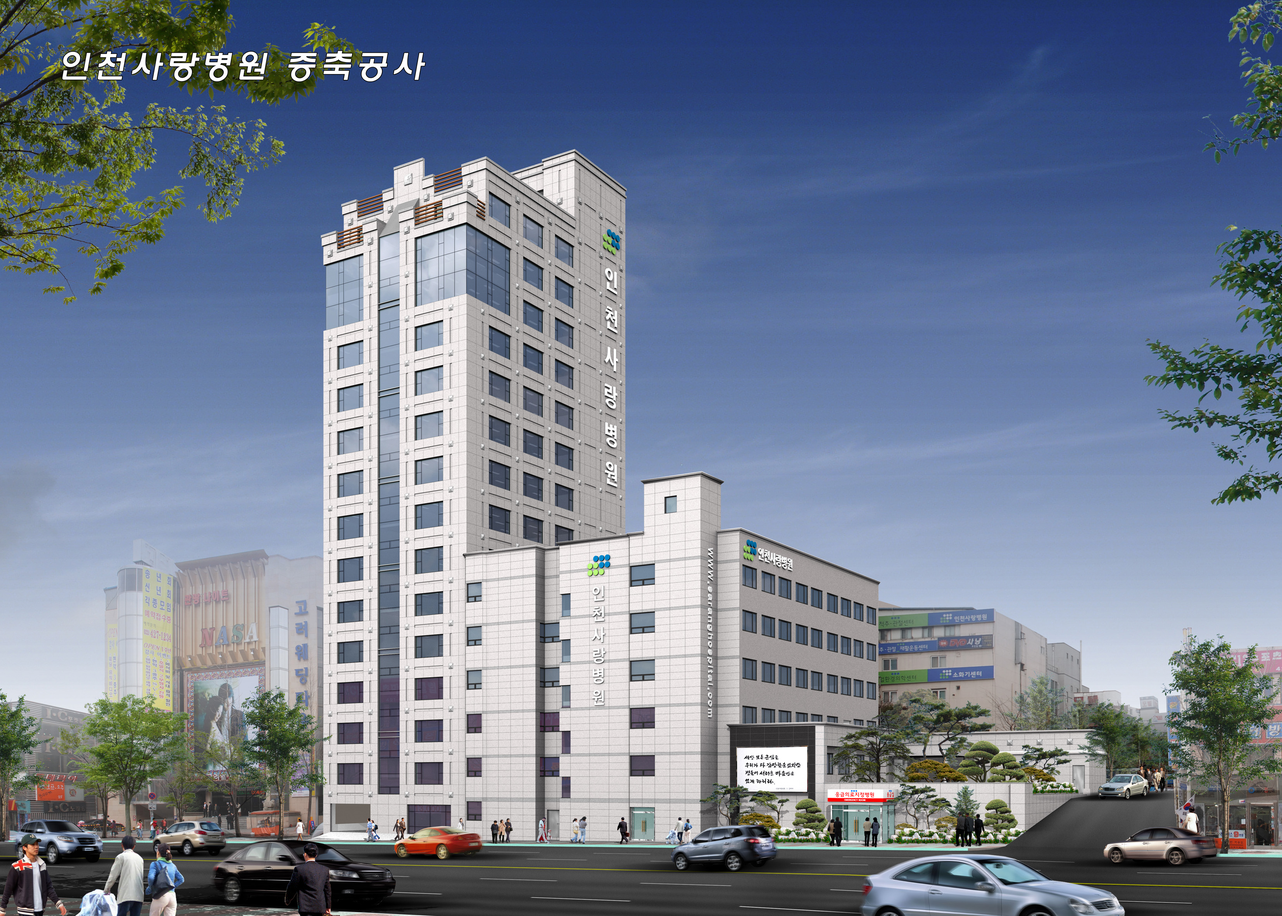
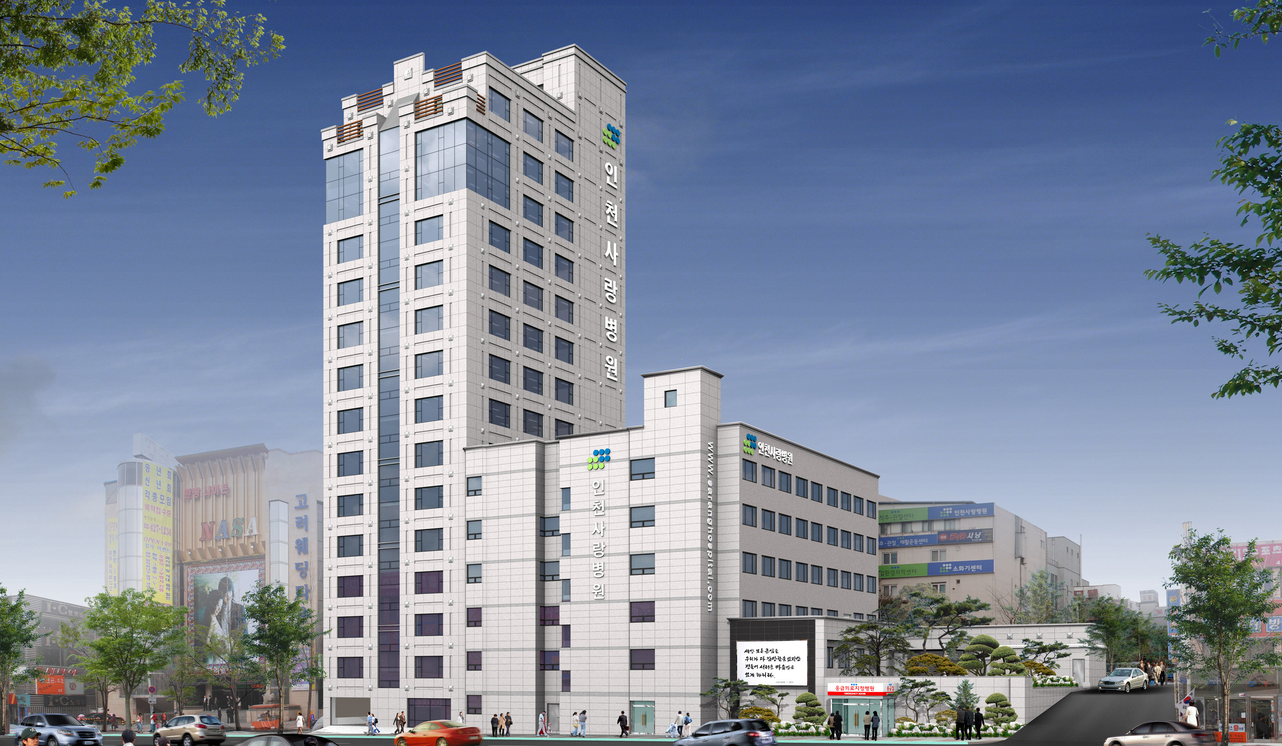
10월5일

diff --git a/sarang.html b/sarang.html
@@ -13,30 +13,32 @@
 
 <body>
     <header>
-        <h1>
-            <a href="#">
-                <figure>
-                    <img src="img/logo black.png" alt="인천사랑병원">
-                </figure>
-                <span class="hidden">인천사랑병원</span>
-            </a>
-        </h1>
-        <div class="menu">
-            <ul>
-                <li>진료안내</li>
-                <li>병원안내</li>
-                <li>진료센터</li>
-                <li>사랑이야기</li>
-                <li>병원소개</li>
-            </ul>
+        <div class="header-container">
+            <h1>
+                <a href="#">
+                    <figure>
+                        <img src="img/logo black.png" alt="인천사랑병원">
+                    </figure>
+                    <span class="hidden">인천사랑병원</span>
+                </a>
+            </h1>
+            <nav class="menu">
+                <ul>
+                    <li>진료안내</li>
+                    <li>병원안내</li>
+                    <li>진료센터</li>
+                    <li>사랑이야기</li>
+                    <li>병원소개</li>
+                </ul>
+            </nav>
         </div>
     </header>
     <main>
         <section id="main-title">
             <div class="banner-box">
-                <img src="img/sarang.jpeg" alt="인천사랑병원">
-                <p class="main-text-title">전문적인 진료와 우수한 헬스케어</p>
-                <p class="title-second">시스템으로 환자 맞춤형 안전지대 구현</p>
+                <!-- background로 이미지 넣을것 -->
+                <p class="first-text"> <span class="main-text-title">전문적인 진료와 우수한 헬스케어</span>
+                    <br> 시스템으로 환자 맞춤형 안전지대 구현</p>
                 <p class="title-appeal">지속적인 MOU체결로 인천 제일의 종합병원으로 그 가치를 이뤄내고 있습니다.</p>
             </div>
         </section>
@@ -84,65 +86,96 @@
         </section>
         <section class="center-info">
             <h2>인천사랑병원 센터안내</h2>
-            <hr>
+           <!-- h2한테 border-bottom주기 -->
             <div class="center-menu-container">
-                <div>
-                    <img src="img/4082109_healthcare_hospital_medical_icon.png" alt="심장혈관센터">
-                    <span>심장・혈관센터</span>
-                </div>
-                <div>
-                    <img src="img/4082111_healthcare_hospital_medical_icon.png" alt="소화기센터">
-                    <span>소화기센터</span>
-                </div>
-                <div>
-                    <img src="img/4082089_healthcare_hospital_medical_icon.png" alt="호흡기센터">
-                    <span>호흡기센터</span>
-                </div>
-                <div>
-                    <img src="img/4082071_healthcare_hospital_medical_icon.png" alt="관절센터">
-                    <span>관절센터</span>
-                </div>
-                <div>
-                    <img src="img/1904389_anatomy_back_backbone_bone_chiropractic_icon.png" alt="척추센터">
-                    <span>척추센터</span>
-                </div>
-                <div>
-                    <img src="img/8212273_pacemaker_heartbeat_heart_cardiac_artificial_icon.png" alt="인공심장센터">
-                    <span>인공심장센터</span>
-                </div>
-                <div>
-                    <img src="img/4082075_healthcare_hospital_medical_icon.png" alt="뇌건강치매센터">
-                    <span>뇌건강치매센터</span>
-                </div>
-                <div>
-                    <img src="img/1913444_brain_head_human_neurology_psychology_icon.png" alt="뇌신경센터">
-                    <span>뇌신경센터</span>
-                </div>
-                <div>
-                    <img src="img/1289470_massage_physical medicine_physiotherapy_rehabilitation_icon.png" alt="재활의학센터">
-                    <span>재활의학센터</span>
-                </div>
-                <div>
-                    <img src="img/2538738_emergency_light_police_security_icon.png" alt="응급의료센터">
-                    <span>응급의료센터</span>
-                </div>
-                <div>
-                    <img src="img/1289464_family medicine_health insurcance_healthcare_icon.png" alt="종합검진센터">
-                    <span>종합검진센터</span>
-                </div>
-                <div>
-                    <img src="img/1289465_internal medicine_medical examination_stethoscope_icon.png" alt="국가암검진센터">
-                    <span>국가암검진센터</span>
-                </div>
-                <div>
-                    <img src="img/5114911_architecture_construction_engineering_helmet_industry_icon.png"
-                        alt="직업환경의학센터">
-                    <span>직업환경의학센터</span>
-                </div>
-                <div>
-                    <img src="img/5804675_artery_blood_capillary_vessel_icon.png" alt="심뇌혈관센터">
-                    <span>심・뇌・혈관센터</span>
-                </div>
+                <ul>
+                    <li>
+                        <a href="https://www.saranghospital.com/About/center/ccenter/Heartvascularcenter/sindex.jsp">   
+                            <img src="img/4082109_healthcare_hospital_medical_icon.png" alt="심장혈관센터">
+                            <span>심장・혈관센터</span>
+                        </a>
+                    </li>
+                    <li>
+                        <a href="https://www.saranghospital.com/About/center/ccenter/Smallarmscenter/sindex.jsp">    
+                            <img src="img/4082111_healthcare_hospital_medical_icon.png" alt="소화기센터">
+                            <span>소화기센터</span>
+                        </a>
+                    </li>
+                    <li>
+                        <a href="https://www.saranghospital.com/About/center/ccenter/Respiratorycenters/sindex.jsp">
+                            <img src="img/4082089_healthcare_hospital_medical_icon.png" alt="호흡기센터">
+                            <span>호흡기센터</span>
+                        </a>
+                    </li>
+                    <li>
+                        <a href="https://www.saranghospital.com/About/center/ccenter/Jointcenter/sindex.jsp">   
+                            <img src="img/4082071_healthcare_hospital_medical_icon.png" alt="관절센터">
+                            <span>관절센터</span>
+                        </a>
+                    </li>
+                    <li>
+                        <a href="https://www.saranghospital.com/About/center/ccenter/Spinecenter/sindex.jsp">
+                            <img src="img/1904389_anatomy_back_backbone_bone_chiropractic_icon.png" alt="척추센터">
+                            <span>척추센터</span>
+                        </a>
+                    </li>
+                    <li>
+                        <a href="https://www.saranghospital.com/About/center/ccenter/Artificialkidneycentre/sindex.jsp"> 
+                            <img src="img/8212273_pacemaker_heartbeat_heart_cardiac_artificial_icon.png" alt="인공신장센터">
+                            <span>인공신장센터</span>
+                        </a>
+                    </li>
+                    <li>
+                        <a href="https://www.saranghospital.com/About/center/ccenter/Braindementia/sindex.jsp">
+                            <img src="img/4082075_healthcare_hospital_medical_icon.png" alt="뇌건강치매센터">
+                            <span>뇌건강치매센터</span>
+                        </a>
+                    </li>
+                    <li>
+                        <a href="https://www.saranghospital.com/About/center/ccenter/Cranialnervecenter/sindex.jsp">
+                            <img src="img/1913444_brain_head_human_neurology_psychology_icon.png" alt="뇌신경센터">
+                            <span>뇌신경센터</span>
+                        </a>
+                    </li>
+                    <li>
+                        <a href="https://www.saranghospital.com/About/center/ccenter/RehabilitationMedicalCenter/sindex.jsp">
+                            <img src="img/1289470_massage_physical medicine_physiotherapy_rehabilitation_icon.png"
+                            alt="재활의학센터">
+                            <span>재활의학센터</span>
+                        </a>
+                    </li>
+                    <li>
+                        <a href="https://www.saranghospital.com/About/center/ccenter/EmergencyMedicalCenter/sindex.jsp">
+                            <img src="img/2538738_emergency_light_police_security_icon.png" alt="응급의료센터">
+                            <span>응급의료센터</span>
+                        </a>
+                    </li>
+                    <li>
+                        <a href="https://www.saranghospital.com/About/center/synthesis/centerinfo.jsp">    
+                            <img src="img/1289464_family medicine_health insurcance_healthcare_icon.png" alt="종합검진센터">
+                            <span>종합검진센터</span>
+                        </a>
+                    </li>
+                    <li>
+                        <a href="https://www.saranghospital.com/About/center/checkup/checkup1.jsp">
+                            <img src="img/1289465_internal medicine_medical examination_stethoscope_icon.png" alt="국가암검진센터">
+                            <span>국가암검진센터</span>
+                        </a>
+                    </li>
+                    <li>
+                        <a href="https://www.saranghospital.com/About/center/environment/MedicalCenter.jsp">
+                            <img src="img/5114911_architecture_construction_engineering_helmet_industry_icon.png"
+                            alt="직업환경의학센터">
+                            <span>직업환경의학센터</span>
+                        </a>    
+                    </li>
+                    <li>
+                        <a href="https://www.saranghospital.com/About/center/centerinfo/centerinfo.jsp">
+                            <img src="img/5804675_artery_blood_capillary_vessel_icon.png" alt="심뇌혈관센터">
+                            <span>심・뇌・혈관센터</span>
+                        </a>
+                    </li>
+                </ul>
                 <button class="view">
                     전체보기
                 </button>
@@ -150,7 +183,7 @@
         </section>
         <section class="health-info">
             <h2>건강정보</h2>
-            <hr>
+            <!-- h2한테 border-bottom주기 -->
             <div class="health-menu-container">
                 <div>
                     <h3>가을철 야외활동시 발열성 질환 예방수칙</h3>
@@ -197,8 +230,8 @@
                 </div>
                 <div class="contact-text">
                     <i class="fa-thin fa-alarm-clock"></i>
-                    <dl>평일 : 08:30 ~ 17:30</dl>
-                    <dl>토요일 : 08:30 ~ 12:30</dl>
+                    <p>평일 : 08:30 ~ 17:30</p>
+                    <p>토요일 : 08:30 ~ 12:30</p>
                     <span>일요일/공휴일 휴무</span> <br>
                     점심시간 12:30 ~ 13:30
 
@@ -208,7 +241,8 @@
                 </div>
                 <div class="contact-text">
                     <i class="fa-thin fa-phone"></i>
-                    <p>032-457-2000</p>
+                    <a href="tel : 032-457-2000">032-457-2000</a>
+                    
                 </div>
             </div>
         </div>

diff --git a/css/saranghospital.css b/css/saranghospital.css
@@ -46,3 +46,28 @@ header img {
     font-weight: bold;
 }
 
+.banner-box {
+    width: 1440px;
+    height: 760px;
+    background-image: url(../img/sarang.jpeg);
+    background-size: cover;
+}
+
+.first-text {
+    position: absolute;
+    left: 53.96%;
+    right: 8.33%;
+    top: 23.03%;
+    bottom: 63.55%;
+    color: var(--font-white);
+    font-size: 30px;
+    font-weight: 400;
+    line-height: 150%;
+/* or 45px */
+
+text-align: right;
+}
+.main-text-title {
+    font-size: 40px;
+    font-weight: 700;
+}
